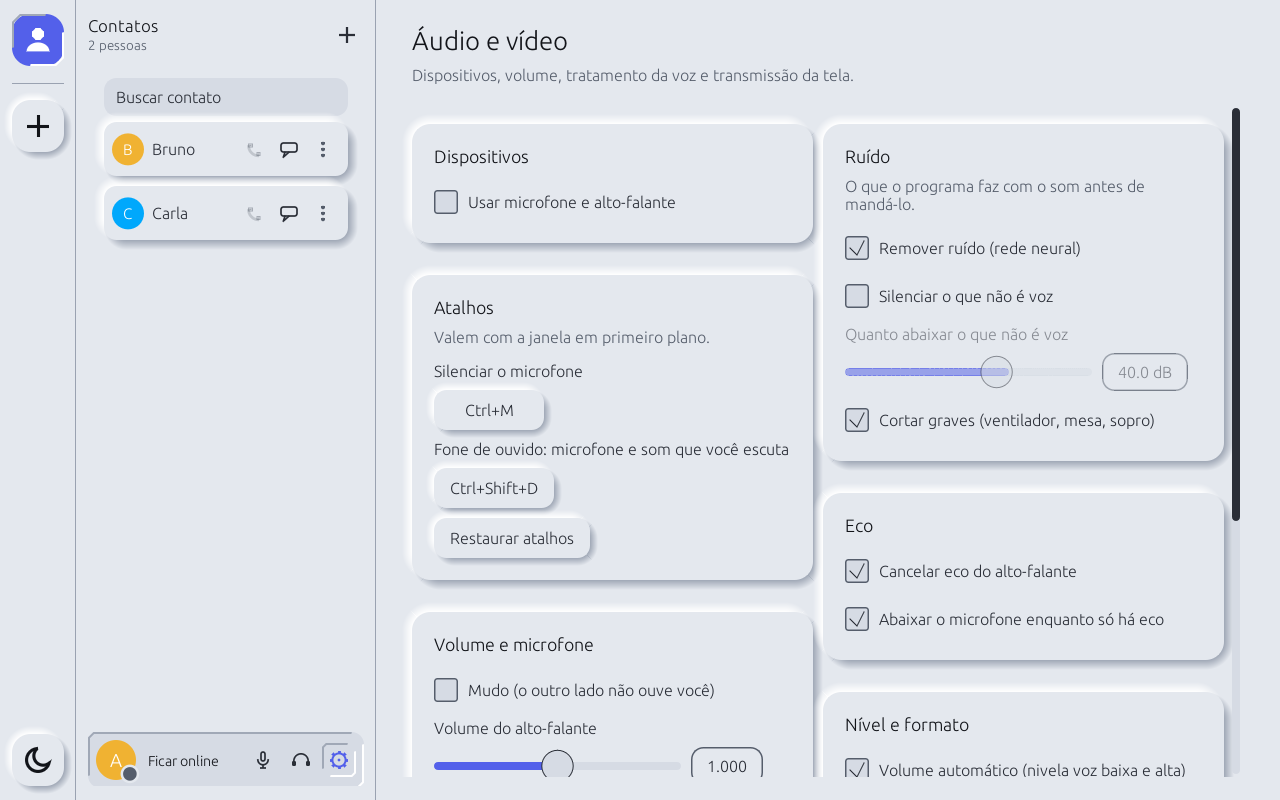
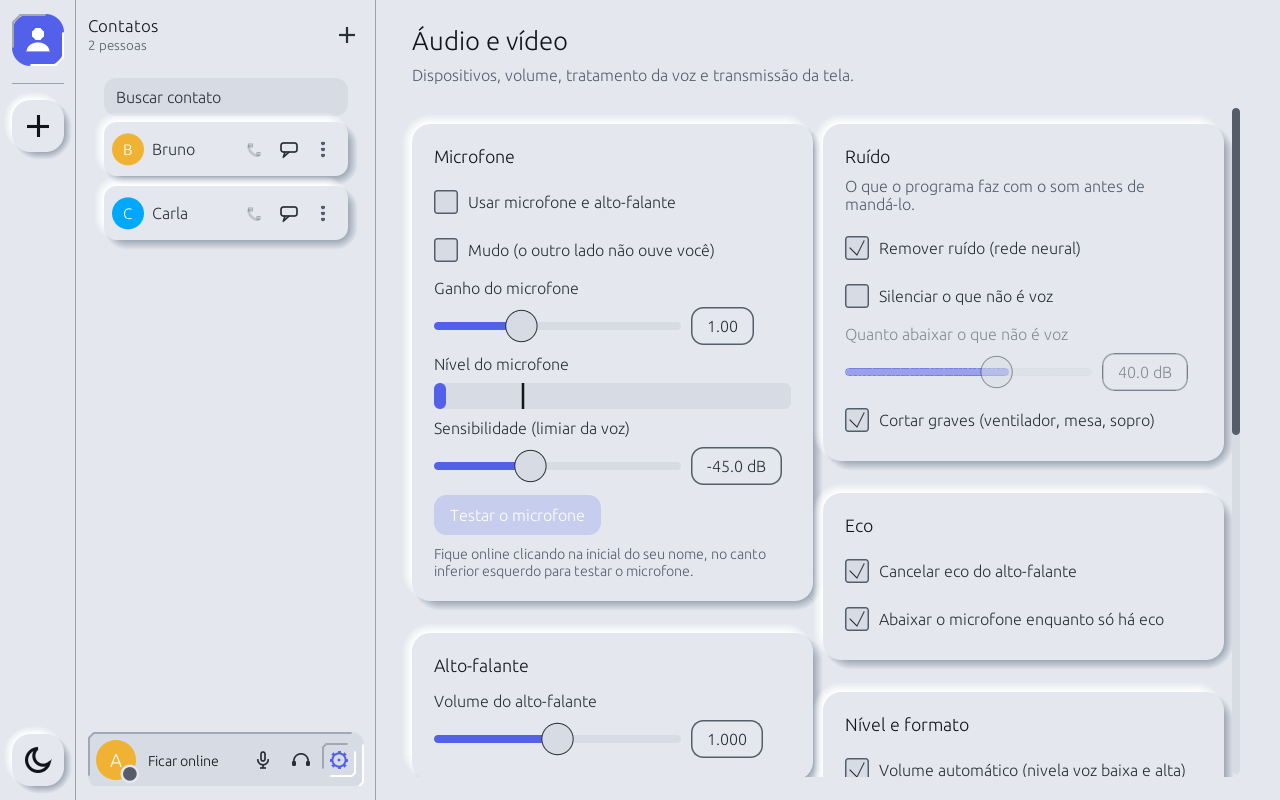
Áudio agrupado por tarefa, Avançado recolhido em Conexão e barra de rolagem sem o bastão preto
A crítica das telas deu 29/40. Áudio tinha um cartão Dispositivos quase vazio que
separava a escolha do aparelho do volume dele: agora Microfone e Alto-falante
reúnem tudo de cada um, e os Atalhos de teclado vão para o fim, uma linha por
atalho. Em Configurações, Endereço público e Onde fica a configuração são coisa
rara e pesavam na tela: ficam num bloco Avançado recolhido, e Arquivos desce
para a coluna da esquerda para equilibrar. O puxador da barra de rolagem usava
a tinta do texto, um bastão preto no tema claro; agora usa o tom apagado do
tema, só no escopo da janela de rolagem (sem floating, o egui ignora as
opacidades). Teste novo do agrupamento do Áudio; docs e capturas atualizados.

A janela real não foi aberta (sem display): validado por testes e capturas.

diff --git a/examples/gui/media.rs b/examples/gui/media.rs
@@ -53,44 +53,17 @@ impl App {
 
         split(ui, |ui, side| {
             if side == 0 {
-                card(ui, "Dispositivos", "", |ui| {
+                // Uma tarefa por cartão: "o microfone funciona?" se responde num lugar só (dispositivo, mudo, ganho,
+                // medidor, sensibilidade e teste), e o alto-falante tem o dele.
+                card(ui, "Microfone", "", |ui| {
+                    ui.spacing_mut().slider_width = (ui.available_width() - 110.0).max(120.0);
                     ui.add_enabled_ui(offline, |ui| ui.check(&mut self.form.use_audio, "Usar microfone e alto-falante")).inner
                         .on_hover_text("Desmarcado, cada lado manda só um tom de teste. Vale ao ficar online.");
                     #[cfg(feature = "audio")]
-                    devices_ui(ui, &mut self.form, &mut self.devs);
-                });
-                let (global, why) = (self.global_keys.active(), self.global_keys.note());
-                let subtitle = if global { "Valem também com a janela em segundo plano." } else { "Valem com a janela em primeiro plano." };
-                card(ui, "Atalhos", subtitle, |ui| {
-                    if !global && !why.is_empty() {
-                        note(ui, format!("Em segundo plano não vale: {why}"));
-                    }
-                    let fixed = [crate::ui::INVITE_KEY, crate::ui::SEARCH_KEY, crate::ui::MEMBERS_KEY];
-                    let mute = crate::atalhos::resolve(&self.form.mute_key, crate::atalhos::MUTE_DEFAULT);
-                    let deaf = crate::atalhos::resolve(&self.form.deafen_key, crate::atalhos::DEAFEN_DEFAULT);
-                    ui.label("Silenciar o microfone");
-                    if let Some(k) = crate::atalhos::field(ui, "mute", &mute, &[&fixed[..], &[deaf]].concat()) {
-                        self.form.mute_key = crate::atalhos::to_text(&k);
-                        self.form.save();
-                    }
-                    ui.label("Fone de ouvido: microfone e som que você escuta");
-                    if let Some(k) = crate::atalhos::field(ui, "deafen", &deaf, &[&fixed[..], &[mute]].concat()) {
-                        self.form.deafen_key = crate::atalhos::to_text(&k);
-                        self.form.save();
-                    }
-                    if button(ui, true, "Restaurar atalhos", pal().bg).clicked() {
-                        self.form.mute_key.clear();
-                        self.form.deafen_key.clear();
-                        self.form.save();
-                    }
-                });
-                card(ui, "Volume e microfone", "", |ui| {
-                    ui.spacing_mut().slider_width = (ui.available_width() - 110.0).max(120.0);
+                    device_pick(ui, "Microfone", &mut self.form.input_dev, &self.devs.0.clone());
                     if ui.check(&mut muted, "Mudo (o outro lado não ouve você)").changed() {
                         a.set_muted(muted);
                     }
-                    ui.label("Volume do alto-falante");
-                    ui.slider(egui::Slider::new(&mut p.volume, AudioPrefs::VOLUME));
                     ui.label("Ganho do microfone");
                     ui.slider(egui::Slider::new(&mut p.mic_gain, AudioPrefs::MIC_GAIN));
                     ui.label("Nível do microfone");
@@ -123,6 +96,16 @@ impl App {
                     if offline {
                         note(ui, format!("Fique online {ONLINE_HINT} para testar o microfone."));
                     }
+                });
+                card(ui, "Alto-falante", "", |ui| {
+                    ui.spacing_mut().slider_width = (ui.available_width() - 110.0).max(120.0);
+                    #[cfg(feature = "audio")]
+                    {
+                        device_pick(ui, "Alto-falante", &mut self.form.output_dev, &self.devs.1.clone());
+                        devices_footer(ui, &mut self.devs);
+                    }
+                    ui.label("Volume do alto-falante");
+                    ui.slider(egui::Slider::new(&mut p.volume, AudioPrefs::VOLUME));
                 });
             } else {
                 // Três cartões por assunto (ruído, eco, nível): oito caixas no mesmo nível não se leem de uma vez.
@@ -167,6 +150,41 @@ impl App {
                     }
                 });
                 self.video_card(ui);
+                let (global, why) = (self.global_keys.active(), self.global_keys.note());
+                let subtitle = if global { "Valem também com a janela em segundo plano." } else { "Valem com a janela em primeiro plano." };
+                card(ui, "Atalhos de teclado", subtitle, |ui| {
+                    if !global && !why.is_empty() {
+                        note(ui, format!("Em segundo plano não vale: {why}"));
+                    }
+                    let fixed = [crate::ui::INVITE_KEY, crate::ui::SEARCH_KEY, crate::ui::MEMBERS_KEY];
+                    let mute = crate::atalhos::resolve(&self.form.mute_key, crate::atalhos::MUTE_DEFAULT);
+                    let deaf = crate::atalhos::resolve(&self.form.deafen_key, crate::atalhos::DEAFEN_DEFAULT);
+                    // Uma linha por atalho: o nome à esquerda e a tecla à direita (antes, rótulo de duas linhas
+                    // sobre um botão pequeno e meia largura vazia).
+                    ui.horizontal(|ui| {
+                        ui.label("Silenciar o microfone");
+                        ui.with_layout(egui::Layout::right_to_left(egui::Align::Center), |ui| {
+                            if let Some(k) = crate::atalhos::field(ui, "mute", &mute, &[&fixed[..], &[deaf]].concat()) {
+                                self.form.mute_key = crate::atalhos::to_text(&k);
+                                self.form.save();
+                            }
+                        });
+                    });
+                    ui.horizontal(|ui| {
+                        ui.label("Fone de ouvido").on_hover_text("Silencia o microfone e o som que você escuta.");
+                        ui.with_layout(egui::Layout::right_to_left(egui::Align::Center), |ui| {
+                            if let Some(k) = crate::atalhos::field(ui, "deafen", &deaf, &[&fixed[..], &[mute]].concat()) {
+                                self.form.deafen_key = crate::atalhos::to_text(&k);
+                                self.form.save();
+                            }
+                        });
+                    });
+                    if button(ui, true, "Restaurar atalhos", pal().bg).clicked() {
+                        self.form.mute_key.clear();
+                        self.form.deafen_key.clear();
+                        self.form.save();
+                    }
+                });
             }
         });
 

diff --git a/examples/gui/settings.rs b/examples/gui/settings.rs
@@ -62,17 +62,19 @@ impl App {
                     if !self.error.is_empty() {
                         ui.colored_label(pal().error, &self.error);
                     }
-                    ui.add_space(4.0);
-                    ui.label("Endereço público");
-                    lock(ui, offline, locked, |ui| {
-                        ui.add(field(&mut self.form.public_addr, "ip:porta"))
-                            .on_hover_text("Só se o IP que os outros enxergam não serve, como atrás de NAT. ip:porta; a porta precisa estar aberta no roteador, e o endereço pode ser um nome.");
+                    // Raro (quase ninguém precisa): recolhido, para não pesar tanto quanto "Ficar online".
+                    egui::CollapsingHeader::new(RichText::new("Avançado").size(14.0).color(pal().muted)).id_salt("conexao-avancado").icon(chevron).show(ui, |ui| {
+                        ui.label("Endereço público");
+                        lock(ui, offline, locked, |ui| {
+                            ui.add(field(&mut self.form.public_addr, "ip:porta"))
+                                .on_hover_text("Só se o IP que os outros enxergam não serve, como atrás de NAT. ip:porta; a porta precisa estar aberta no roteador, e o endereço pode ser um nome.");
+                        });
+                        details(
+                            ui,
+                            "Onde fica a configuração",
+                            &format!("{} ({})", conf_path().display(), if self.form.loaded { "lida ao abrir" } else { "não encontrada ao abrir; será criada" }),
+                        );
                     });
-                    details(
-                        ui,
-                        "Onde fica a configuração",
-                        &format!("{} ({})", conf_path().display(), if self.form.loaded { "lida ao abrir" } else { "não encontrada ao abrir; será criada" }),
-                    );
                 });
                 card(ui, "Seu nome", "Como os outros veem você na lista deles.", |ui| {
                     lock(ui, offline, locked, |ui| {
@@ -169,6 +171,9 @@ impl App {
                         });
                     });
                 }
+                card(ui, "Arquivos", "Onde ficam os arquivos que você baixa.", |ui| {
+                    self.save_folder_picker(ui);
+                });
             } else {
                 card(ui, "Privacidade", "O que quem observa a rede e os seus contatos veem de você.", |ui| {
                     details(ui, "Como funciona", "Desligado (padrão), a ligação é direta: o contato e quem observa a rede perto dele ou de você veem o seu IP. O conteúdo segue cifrado de ponta a ponta. Ligado, a ligação passa pelo relay de outro contato (qualquer um serve): ele vê o seu IP e o destino, mas não o conteúdo, e o contato com quem você fala só vê o IP desse relay. Com a opção ligada nos dois lados, nenhum dos dois aprende o IP do outro. Vale para voz, tela, bate-papo e arquivos. Sem relay de outro contato disponível, a ligação falha com o motivo, e nunca cai para o caminho direto. Voz, tela, bate-papo e arquivos: se o contato também usa a opção, vão por pontos de introdução e nenhum dos dois aprende o relay do outro; ligada, seu endereço deixa de ser entregue e gravado, um contato com a opção desligada deixa de achar você e um contato offline não recebe bate-papo. Apresentação e caixa de correio vão sem o seu endereço, e o seu código de contato leva só a chave. Servidores criam, convidam e entram sem endereço, mas só alcançam membros que são seus contatos (veja docs/DOIS-RELAYS.md).");
@@ -212,9 +217,6 @@ impl App {
                         ui.add(egui::TextEdit::multiline(&mut self.form.anchors).hint_text("ip:porta#chave-do-circuito#chave-do-link, uma por linha").desired_rows(3).desired_width(f32::INFINITY).margin(Margin::symmetric(12, 10)))
                             .on_hover_text("Uma por linha, no código que o dono da âncora te passa: ip:porta#chave-do-circuito#chave-do-link");
                     });
-                });
-                card(ui, "Arquivos", "Onde ficam os arquivos que você baixa.", |ui| {
-                    self.save_folder_picker(ui);
                 });
             }
         });
@@ -443,6 +445,21 @@ mod layout_tests {
         let mut app = app();
         let rects = cards(egui::vec2(1300.0, 1800.0), |ui| app.audio_tab(ui, true, false, false));
         assert!(rects.iter().any(|(t, _)| t == "Transmissão de tela"));
+    }
+
+    /// Áudio se agrupa por tarefa (microfone, alto-falante, atalhos): não sobra um cartão
+    /// "Dispositivos" quase vazio e os atalhos ficam no fim da página.
+    #[test]
+    fn audio_page_is_grouped_by_task() {
+        let mut app = app();
+        let rects = cards(egui::vec2(1300.0, 1800.0), |ui| app.audio_tab(ui, true, false, false));
+        let titles: Vec<&str> = rects.iter().map(|(t, _)| t.as_str()).collect();
+        for t in ["Microfone", "Alto-falante", "Atalhos de teclado"] {
+            assert!(titles.contains(&t), "falta o cartão '{t}': {titles:?}");
+        }
+        assert!(!titles.contains(&"Dispositivos"), "{titles:?}");
+        let y = |t: &str| rects.iter().find(|(n, _)| n == t).map(|(_, r)| r.top()).unwrap();
+        assert!(y("Atalhos de teclado") > y("Ruído"), "atalhos devem vir depois do tratamento");
     }
 
     /// O tratamento da voz vem em cartões por assunto, sem um sobre o outro, nas duas larguras.

diff --git a/examples/gui/ui.rs b/examples/gui/ui.rs
@@ -79,22 +79,22 @@ pub(crate) fn split(ui: &mut egui::Ui, mut f: impl FnMut(&mut egui::Ui, usize)) 
     }
 }
 
-/// Escolha de microfone e alto-falante (vazio = padrão do sistema); vale na próxima chamada.
+/// Lista de escolha de um dispositivo de áudio (vazio = padrão do sistema); vale na próxima chamada.
 #[cfg(feature = "audio")]
-pub(crate) fn devices_ui(ui: &mut egui::Ui, form: &mut Form, devs: &mut (Vec<String>, Vec<String>)) {
-    let pick = |ui: &mut egui::Ui, label: &str, cur: &mut String, list: &[String]| {
-        ui.label(label);
-        let shown = if cur.is_empty() { "padrão do sistema".to_string() } else { cur.clone() };
-        select_field(ui, label, &shown, |ui| {
-            ui.selectable_value(cur, String::new(), "padrão do sistema");
-            for d in list {
-                ui.selectable_value(cur, d.clone(), d);
-            }
-        });
-    };
-    let (ins, outs) = devs.clone();
-    pick(ui, "Microfone", &mut form.input_dev, &ins);
-    pick(ui, "Alto-falante", &mut form.output_dev, &outs);
+pub(crate) fn device_pick(ui: &mut egui::Ui, label: &str, cur: &mut String, list: &[String]) {
+    ui.label(label);
+    let shown = if cur.is_empty() { "padrão do sistema".to_string() } else { cur.clone() };
+    select_field(ui, label, &shown, |ui| {
+        ui.selectable_value(cur, String::new(), "padrão do sistema");
+        for d in list {
+            ui.selectable_value(cur, d.clone(), d);
+        }
+    });
+}
+
+/// Rodapé das listas de dispositivos: o sistema de áudio em uso e a releitura da lista (vale para as duas).
+#[cfg(feature = "audio")]
+pub(crate) fn devices_footer(ui: &mut egui::Ui, devs: &mut (Vec<String>, Vec<String>)) {
     note(ui, format!("Sistema de áudio: {}", clam::audio::host_name()));
     if button(ui, true, "Atualizar a lista de dispositivos", pal().bg).clicked() {
         *devs = clam::audio::devices();
@@ -496,19 +496,28 @@ impl eframe::App for App {
                 self.call_tab(ui, offline, calling, calling && !in_room);
                 return;
             }
-            egui::ScrollArea::vertical().auto_shrink(false).show(ui, |ui| {
-                // A sombra dos cartões passa da borda deles: sem isso a janela de rolagem cortava o relevo dos cantos
-                // e dos lados. Só na horizontal, para o que rolou para cima não pintar sobre o cabeçalho.
-                ui.set_clip_rect(ui.clip_rect().expand2(egui::vec2(20.0, 0.0)));
-                ui.add_space(12.0);
-                ui.set_max_width(ui.available_width().min(1500.0));
-                match self.tab {
-                    Tab::Contacts | Tab::Call => {}
-                    Tab::Servers => self.servers_tab(ui, offline),
-                    Tab::Audio => self.audio_tab(ui, offline, calling, testing),
-                    Tab::Settings => self.settings_tab(ctx, ui, offline, calling, &status),
-                    Tab::Log => {}
-                }
+            // O egui pinta o puxador com a tinta do texto (um bastão preto no tema claro); aqui ele usa o tom
+            // apagado do tema, só neste escopo, para não tocar nos outros controles.
+            ui.scope(|ui| {
+                ui.spacing_mut().scroll.foreground_color = false;
+                let w = &mut ui.visuals_mut().widgets;
+                w.inactive.bg_fill = theme::pal().muted;
+                w.hovered.bg_fill = theme::pal().text;
+                w.active.bg_fill = theme::pal().text;
+                egui::ScrollArea::vertical().auto_shrink(false).show(ui, |ui| {
+                    // A sombra dos cartões passa da borda deles: sem isso a janela de rolagem cortava o relevo dos cantos
+                    // e dos lados. Só na horizontal, para o que rolou para cima não pintar sobre o cabeçalho.
+                    ui.set_clip_rect(ui.clip_rect().expand2(egui::vec2(20.0, 0.0)));
+                    ui.add_space(12.0);
+                    ui.set_max_width(ui.available_width().min(1500.0));
+                    match self.tab {
+                        Tab::Contacts | Tab::Call => {}
+                        Tab::Servers => self.servers_tab(ui, offline),
+                        Tab::Audio => self.audio_tab(ui, offline, calling, testing),
+                        Tab::Settings => self.settings_tab(ctx, ui, offline, calling, &status),
+                        Tab::Log => {}
+                    }
+                });
             });
         });
         // Com tela chegando a janela repinta a cada ~16 ms; a 300 ms o vídeo parecia ter 3 quadros/s.

diff --git a/examples/gui/theme.rs b/examples/gui/theme.rs
@@ -187,8 +187,7 @@ pub(crate) fn apply(ctx: &egui::Context) {
         s.spacing.slider_width = 260.0;
         s.spacing.combo_width = 280.0;
         s.spacing.text_edit_width = 320.0;
-        // Barra mais fina e afastada do cartão: com 10 px colada nele (inner 4, outer 0) ela parecia parte da moldura. A
-        // cor da alça é a do texto (o egui não deixa trocar), então o contraste fica alto de propósito.
+        // Barra mais fina e afastada do cartão: com 10 px colada nele (inner 4, outer 0) ela parecia parte da moldura.
         s.spacing.scroll.bar_width = 8.0;
         s.spacing.scroll.bar_inner_margin = 8.0;
         s.spacing.scroll.bar_outer_margin = 4.0;

diff --git a/docs/GUI.md b/docs/GUI.md
@@ -16,8 +16,8 @@ A janela segue o layout do Discord e o visual neomórfico (soft UI: uma cor base
 | *Servidor* (pelo trilho) | As *Salas de voz* com quem está em cada uma, o aro verde de quem fala e, no centro, o bate-papo da sala em que você está (apagado quando a sala esvazia; quem sai da sala perde a conversa daqui na hora, e quem entra com a sala ocupada recebe o que foi dito antes, com a autoria provada (a linha de quem sumiu sem sair aparece como "mensagem apagada", sem texto); sem miniatura: quem transmite mostra o monitor verde na linha dele e clicar abre a tela cheia, como no contato), e, numa coluna à direita, os *Membros* (online e offline) com o convite recolhido e o aviso de IP. A coluna de membros só abre sozinha em janela de 1100 px ou mais (trilho + salas + membros tomam 716 px e o bate-papo precisa de ~380); em janela menor ela fica escondida, e o ícone de duas pessoas no cabeçalho das salas (dica: "membros e convite", já que o convite mora nessa coluna) mostra ou esconde e fica afundado enquanto a coluna está aberta, a escolha valendo até fechar o app. Detalhes em [SERVIDORES.md](SERVIDORES.md) |
 | **Chamada** | *Ligar para um código* (sem chamada; um cartão só, sem cartão de "nenhuma chamada"); ao lado do avatar do perfil, offline, o texto *Ficar online* (clicável) diz o estado e a ação; a conversa (chamar ou atender não troca de aba; compartilhar a tela e o mudo ficam só na barra do pé, sem botão aqui), só o bate-papo (sem cartões de estado, privacidade ou desligar: isso fica na barra do pé). Quem transmite aparece com o monitor verde na linha dele na lista de contatos, junto dos outros ícones (bate-papo, telefone); clicar assiste (tela cheia, sem miniatura), onde o som da tela toca e fica a chave de ouvir (enviar o seu som é perguntado ao começar a transmitir) (🔍; a janela do app vai a tela cheia e a imagem ocupa tudo, com um selo no canto superior esquerdo com a resolução que chega e os quadros por segundo medidos a cada ~1 s, p. ex. `1920×1080 · 24 fps`; sai pelo X no canto ou pelo Esc) |
 | **Áudio e vídeo**: cartão *Transmissão de tela* | No fim da coluna direita da aba (Vídeo deixou de ser página própria: eram duas caixas e meia tela vazia): privacidade, alta qualidade e codificar pela placa de vídeo (GStreamer no Linux; MFT H.264 de hardware no Windows); valem da próxima transmissão, na chamada e nas salas. A linha de diagnóstico da transmissão termina em `codificador openh264` ou `codificador hardware (<nome do MFT ou elemento>)` (com `o driver recusou: ...` quando o MFT rejeitou alguma propriedade, ou `openh264 (o hardware parou: ...)` quando caiu de volta), e traz "som: capturados N (M com som), enviados N, recebidos N, tocados N", que diz em que etapa o som parou (capturado sem som é o monitor errado ou nada tocando), e a falha ao abrir a captura (sem `gst-launch-1.0` ou saída padrão) aparece na janela, não só no log. O som da tela não fica aqui: o envio do som do computador é perguntado numa janela *Transmitir a tela* (título à esquerda, sem barra de título; chave de som (começa ligada a cada transmissão), monitor para transmitir e X, com o nome no hover; Esc cancela, Enter transmite; sem aviso fixo na janela: com a privacidade desligada, o hover da chave diz que quem observa a rede vê quando há som) toda vez que se começa a transmitir, na chamada e na sala, e só ali; ouvir (*Ouvir o som das telas*, alto-falante riscado quando desligado) só existe dentro da tela cheia, depois de abrir a transmissão (na chamada e na sala), e vale na hora (enviar existe no Linux e no Windows; ver [CHAMADAS.md](CHAMADAS.md#transmissão-de-tela-clammediascreen-clamphone)) |
-| **Áudio e vídeo**: áudio | *Dispositivos* (usar microfone e alto-falante, escolha dos dois), *Volume e microfone* (mudo, volume, ganho, medidor, sensibilidade, teste) e três cartões de tratamento da voz: *Ruído* (remover ruído, silenciar o que não é voz e o quanto abaixar, cortar graves), *Eco* (cancelar e abaixar o microfone) e *Nível e formato* (volume automático, Opus, restaurar padrões) |
-| **Configurações** | Duas colunas, cada cartão no assunto dele e nenhum de largura cheia: à esquerda *Conexão*, *Seu nome*, *Meu código de contato* e *Identidade*; à direita *Privacidade*, *Encontrar contatos*, *Âncoras* e *Arquivos*. *Conexão* (Ficar online / offline, o estado e a caixa *Tentar ficar online ao abrir o programa*, ligada por padrão; desmarcar grava `no_auto_online=1` em `~/.clam-gui.conf`), *Meu código de contato* (com *Copiar o código*), *Identidade* (a chave secreta, oculta; *Gerar nova identidade*), *Seu nome*, *Endereço público* (dentro de *Conexão*), *Tela em alta qualidade* (em *Transmissão de tela*, desligada de início; grava `hq_screen=1`; slot de 1 ms com cover, o dobro da banda de vídeo e 256 kB/s de upload fixos; veja [CHAMADAS.md](CHAMADAS.md)), *Priorizar velocidade* (caixa logo abaixo de "2 relays", desligada de início; grava `speed_first=1`; tira o ritmo constante de todos os fluxos, com nota visível quando ligada, e fica desligada e ignorada com "2 relays" ligada; veja [SEGURANCA.md](SEGURANCA.md)), *Privacidade* (antes o cartão "2 relays"; leva também a caixa *Aceitar adições e remoções de contatos*, que era de *Seu nome*) com a caixa "Passar as ligações por relays de outros contatos", desligada de início; grava `two_relays=1` em `~/.clam-gui.conf`; desligada, a conexão é direta e o contato e quem observa a rede veem o seu IP, e a nota do card diz isso; ligada, sem relay de outro contato a ligação falha em vez de ir direto, a chamada de voz vai por introdução e encontro quando o contato também usa a opção (sem pontos dele a chamada falha com o motivo, sem usar o endereço) e o seu endereço deixa de ser entregue e gravado; tela, bate-papo e arquivos ainda usam o relay guardado; vale a partir da próxima ligação), *Encontrar contatos* (DHT, circuito da DHT, aceitar apresentações) e *Âncoras* (servir de âncora, as que você usa e o código da sua) |
+| **Áudio e vídeo**: áudio | agrupado por tarefa, não por tipo de controle. À esquerda, *Microfone* (usar microfone e alto-falante, mudo, escolha do microfone, ganho, medidor, sensibilidade, teste) e *Alto-falante* (escolha e volume); à direita três cartões de tratamento da voz: *Ruído* (remover ruído, silenciar o que não é voz e o quanto abaixar, cortar graves), *Eco* (cancelar e abaixar o microfone) e *Nível e formato* (volume automático, Opus, restaurar padrões), *Transmissão de tela* e, no fim, *Atalhos de teclado* (uma linha por atalho: mudo e fone). Não há mais cartão *Dispositivos*: era quase só duas listas e separava a escolha do aparelho do volume dele |
+| **Configurações** | Duas colunas, cada cartão no assunto dele e nenhum de largura cheia: à esquerda *Conexão*, *Seu nome*, *Meu código de contato*, *Identidade* e *Arquivos*; à direita *Privacidade*, *Encontrar contatos* e *Âncoras*. *Conexão* (Ficar online / offline, o estado e a caixa *Tentar ficar online ao abrir o programa*, ligada por padrão; desmarcar grava `no_auto_online=1` em `~/.clam-gui.conf`), *Meu código de contato* (com *Copiar o código*), *Identidade* (a chave secreta, oculta; *Gerar nova identidade*), *Seu nome*, *Endereço público* e *Onde fica a configuração* (dentro de *Conexão*, num bloco recolhido *Avançado*: é coisa rara e pesava na tela), *Tela em alta qualidade* (em *Transmissão de tela*, desligada de início; grava `hq_screen=1`; slot de 1 ms com cover, o dobro da banda de vídeo e 256 kB/s de upload fixos; veja [CHAMADAS.md](CHAMADAS.md)), *Priorizar velocidade* (caixa logo abaixo de "2 relays", desligada de início; grava `speed_first=1`; tira o ritmo constante de todos os fluxos, com nota visível quando ligada, e fica desligada e ignorada com "2 relays" ligada; veja [SEGURANCA.md](SEGURANCA.md)), *Privacidade* (antes o cartão "2 relays"; leva também a caixa *Aceitar adições e remoções de contatos*, que era de *Seu nome*) com a caixa "Passar as ligações por relays de outros contatos", desligada de início; grava `two_relays=1` em `~/.clam-gui.conf`; desligada, a conexão é direta e o contato e quem observa a rede veem o seu IP, e a nota do card diz isso; ligada, sem relay de outro contato a ligação falha em vez de ir direto, a chamada de voz vai por introdução e encontro quando o contato também usa a opção (sem pontos dele a chamada falha com o motivo, sem usar o endereço) e o seu endereço deixa de ser entregue e gravado; tela, bate-papo e arquivos ainda usam o relay guardado; vale a partir da próxima ligação), *Encontrar contatos* (DHT, circuito da DHT, aceitar apresentações) e *Âncoras* (servir de âncora, as que você usa e o código da sua) |
 | **Atividade** | O registro do que o programa está fazendo (avisos de endereço, apresentações, erros, e uma linha de tempos por arquivo enviado: aceite, abertura do circuito, primeiro ack, reenvios, KB/s; na tela, as etapas `tela:` — abrindo a captura (com aviso após 8 s no portal do Wayland), ligando o circuito, transmitindo, e uma linha de diagnóstico do circuito com o slot, a ocupação dele, o vídeo útil em kbps, a parte vazia do pacote, a fila e os quadros/s com a meta e quantas imagens por segundo a captura entrega (o Wayland só manda imagem quando a tela muda: pouca imagem = tela parada, não programa lento) (ocupação perto de 100% = o gargalo é o slot; folga e fila vazia = é o codificador) — e, para quem assiste, o aviso de 10 s sem o primeiro quadro); vazio, é um cartão curto (*Nada ainda*), não um poço de altura cheia |
 
 Tudo o que a janela guarda fica em `~/.clam-gui.conf` e nos arquivos ao lado (`.clam-gui.known`, `.clam-gui.relay`, `.clam-gui.intro`, `.clam-gui.removed`, `.clam-gui.servers`); a chave secreta vai para o chaveiro do sistema, quando há ([SEGURANCA.md](SEGURANCA.md#chaveiro)). Se o chaveiro não responde, a janela avisa em *Identidade* e não cria uma identidade nova no lugar.
@@ -123,7 +123,7 @@ As seções da janela (trilho, salas, centro, membros) são separadas por uma li
 
 **Ícones da sala.** O alto-falante (salas e subseção), o fone (ligar e atender no cartão de chamada e na subseção), e o X (fechar o convite) são desenhados com o `painter` (`speaker_icon`, `phone_icon`, `close_button`), não emojis. O cartão fantasma com `+` (nova sala, convidar) usa o `muted` cheio, com mais de 3:1 sobre a base nos dois temas (teste em `theme.rs`). No convite, o texto que explica o envio fica no hover do título e *Gerar o convite como texto*, que é raro, fica no menu de três pontos; o aviso do IP continua visível. Os contatos (ligar, bate-papo, aviso de pendente), a engrenagem, o microfone e o menu das páginas também são ícones desenhados (`glyph_button`, `menu_item`; `chat_icon`, `gear_icon`, `mic_icon`, `monitor_icon`, `log_icon`, `alert_icon`); a busca de contatos e o desbloquear não levam mais glifo da fonte.
 
-**Configurações: distribuição.** `split` divide em duas colunas e as mantém alinhadas à esquerda (o layout justificado de `columns` justificava também o texto, com espaço largo entre as palavras). Listas de escolha (pasta de baixados, microfone, alto-falante) usam `select_field`: caixa afundada como os campos de texto, sem a moldura própria do egui. A janela de rolagem das páginas alarga o recorte em 20 px dos lados para o relevo dos cartões não ser cortado. Testes: `settings_columns_are_balanced_and_no_card_spans_both` e `screen_preferences_live_in_the_audio_page`. Limite conhecido: Atividade segue página própria, com um cartão "Nada ainda" enquanto não há o que mostrar.
+**Configurações: distribuição.** `split` divide em duas colunas e as mantém alinhadas à esquerda (o layout justificado de `columns` justificava também o texto, com espaço largo entre as palavras). Listas de escolha (pasta de baixados, microfone, alto-falante) usam `select_field`: caixa afundada como os campos de texto, sem a moldura própria do egui. A janela de rolagem das páginas alarga o recorte em 20 px dos lados para o relevo dos cartões não ser cortado. A barra de rolagem usa o tom apagado do tema (`pal().muted`, mais escuro ao passar o mouse) em vez da tinta do texto, que no tema claro virava um bastão preto; o ajuste é só no escopo da janela de rolagem, em `ui.rs`. Testes: `settings_columns_are_balanced_and_no_card_spans_both`, `screen_preferences_live_in_the_audio_page` e `audio_page_is_grouped_by_task`. Limite conhecido: Atividade segue página própria, com um cartão "Nada ainda" enquanto não há o que mostrar.
 
 **Configurações: texto longo e identidade.** Os cartões *Encontrar contatos* e *Âncoras* mostram só um resumo; a explicação inteira fica no bloco recolhido *Como funciona* (`details`, `theme.rs`), cuja seta é desenhada com o `painter` (`chevron`) e que continua abrindo online. O formato do código das âncoras e o caminho do arquivo de configuração (*Onde fica a configuração*) também ficam recolhidos ou no hover, não na tela. *Gerar nova identidade* está no menu ⋮ ao lado da chave: pergunta, escreve que o código de contato muda e que a chave atual se perde se não foi guardada, com *Gerar* e *Cancelar*. Online, só o corpo de cada cartão de ajuste fica apagado (`lock`, em `settings.rs`), com o motivo (*Fique offline para mudar estes ajustes*) no hover e no nome acessível; o aviso fica logo acima desses cartões, não acima do código de contato. O menu ⋮ da identidade tem *Mostrar/Esconder a chave* (olho) e *Copiar a chave*, que só leem a chave e por isso valem também online; *Gerar nova identidade* aparece apagada online, com o motivo. A chave nasce escondida no campo, só fica à mostra enquanto se está em Configurações (some ao trocar de aba) e a marca de "à mostra" nunca vai a arquivo. Copiar é ação explícita da pessoa; a área de transferência do sistema pode ser lida por outros programas, e o hover avisa. *Bloqueados* mostra o nome que o contato tinha ao ser removido com *Bloquear também* (guardado em `blocked=` como `chave=nome`; o código completo fica no hover; sem nome, só o início do código), com o botão *Desbloquear* em texto. Campos que só valem quando o programa reabre (*Seu nome*, *Âncoras que você usa*) levam um relógio desenhado (`reopen_mark`) com a explicação no hover.
 
